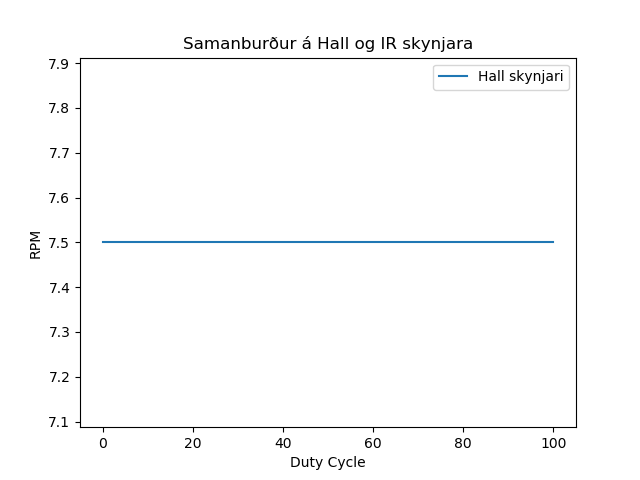
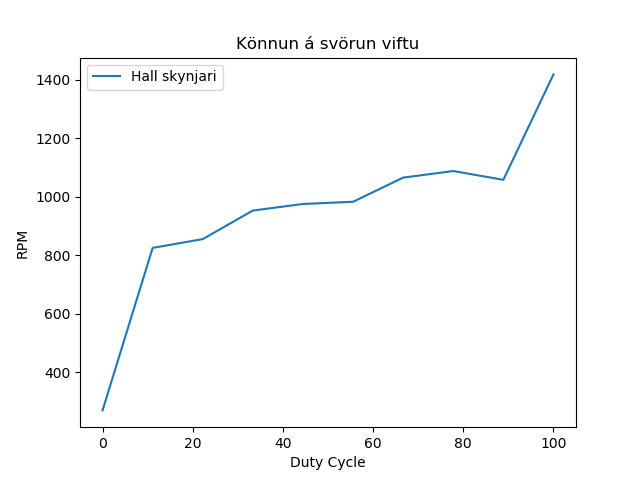
zoom 16 nov

diff --git a/KodaVinnsla/SvorunViftuTAKE2.py b/KodaVinnsla/SvorunViftuTAKE2.py
@@ -1,0 +1,95 @@
+import RPi.GPIO as GPIO
+import time
+import datetime
+import matplotlib.pyplot as plt
+
+# Configuration
+FAN_GPIO_PIN = 20       # BCM pin used to drive PWM fan
+PWM_FREQ = 25000        # [Hz] 25kHz for PWM control
+
+PWM_OFF = 0             # the PWM_duty_cycle 0%
+PWM_MAX = 100           # the PWM_duty_cycle 100%
+
+TACH_GPIO_PIN = 21      # BCM pin for reading the tachometer
+count_time = 2          # seconds for counting sensor changes
+
+RELAY_FAN_GPIO_PIN = 26 # BCM pin used to turn RELAY for FAN ON/OFF
+
+############ skilgreinum ##################
+# Stilla viftuhraða
+def setFanSpeed(PWM_duty_cycle):
+  fan.start(PWM_duty_cycle)    # set the speed according to the PWM duty cycle
+  return()
+
+################################################
+
+############ define functions ##################
+def tach_count(sec,GPIO_PIN):
+  duration = datetime.timedelta(seconds=sec)      # measure for one second
+  end_time = (datetime.datetime.now()+duration)   # set the time when to stop
+  current_pin_status = GPIO.input(GPIO_PIN)
+  last_pin_status = 2
+  counter = 0
+  while ( datetime.datetime.now() < end_time):
+    current_pin_status=GPIO.input(GPIO_PIN)
+    if (current_pin_status != last_pin_status):
+#      print(current_pin_status)
+      last_pin_status = current_pin_status
+      counter += 1
+  return (counter)
+
+################################################
+####
+print("Hversu mörg duty cycle viltu prófa?")
+a = int(input("Fjöldi duty cylce:"))
+
+########
+try:
+  GPIO.setwarnings(False)
+  GPIO.setmode(GPIO.BCM)
+  # PWM notað til að stýra viftuhraða
+  GPIO.setup(FAN_GPIO_PIN, GPIO.OUT, initial=GPIO.LOW)
+  fan = GPIO.PWM(FAN_GPIO_PIN,PWM_FREQ)
+  setFanSpeed(PWM_OFF)
+  # tachometer - from a hall sensor located in the fan
+  GPIO.setup(TACH_GPIO_PIN, GPIO.IN, pull_up_down=GPIO.PUD_UP)
+
+  # Setting up relay for FAN
+  GPIO.setup(RELAY_FAN_GPIO_PIN, GPIO.OUT, initial=GPIO.LOW) # HIGH MEANS RELAY IS OFF
+
+  counter= 0
+
+  ###Búum til tóm fylki og vistum gildi í þau. Notaðu seinna í grafi ##
+  Cycle_duty = []
+  RPM_Hall = []
+  ##############################################
+
+  while (counter < a):
+    duty_cycle = PWM_MAX*counter/(a-1)
+    Cycle_duty.append(duty_cycle)
+    setFanSpeed(duty_cycle)
+    time.sleep(4)
+    print("Duty cycle: {:.2f}%".format(duty_cycle))
+    tach_hall_rpm = float(tach_count(count_time,TACH_GPIO_PIN))/count_time/2/2*60
+    RPM_Hall.append(tach_hall_rpm)
+    print("Hall RPM: {:.2f} RPM".format(tach_hall_rpm))
+    counter += 1
+
+# trap a CTRL+C keyboard interrupt
+except KeyboardInterrupt:
+  setFanSpeed(FAN_OFF)
+  GPIO.cleanup() # resets all GPIO ports used by this function
+
+###Gerum graf af duty cycle sem fall af RPM fyrir báða skynjara
+###############################################################
+a = plt.plot(Cycle_duty,RPM_Hall,label= "Hall skynjari")
+plt.xlabel("Duty Cycle")
+plt.ylabel("RPM")
+plt.title("Könnun á svörun viftu")
+plt.legend()
+plt.savefig('nidurstodur.png')
+##Slokkva á viftu
+setFanSpeed(PWM_OFF)
+GPIO.setup(RELAY_FAN_GPIO_PIN, GPIO.OUT, initial=GPIO.HIGH) # HIGH MEANS RELAY IS OFF
+GPIO.cleanup() # resets all GPIO ports used by this function
+####

diff --git a/KodaVinnsla/PWM_demo.py b/KodaVinnsla/PWM_demo.py
@@ -1,0 +1,42 @@
+#!/usr/bin/python -u
+
+import RPi.GPIO as GPIO
+import time
+
+# Configuration
+FAN_GPIO_PIN = 26       # BCM pin used to drive PWM fan
+PWM_FREQ = 25000        # [Hz] 25kHz for PWM control
+
+PWM_OFF = 0             # the PWM_duty_cycle 0%
+PWM_MAX = 100           # the PWM_duty_cycle 100%
+
+FAN_OFF=PWM_OFF         # If no relay connection, this sets the fan speed to the lowest setting (230 RPM - https://www.arctic.ac/en/F12-PWM/AFACO-120P2-GBA01). If relay connection, use the relay to cut the power to the fan to turn it off.
+
+############ define functions ##################
+# Set fan speed
+def setFanSpeed(PWM_duty_cycle):
+  fan.start(PWM_duty_cycle)    # set the speed according to the PWM duty cycle
+  return()
+
+################################################
+try:
+  GPIO.setwarnings(False)
+  GPIO.setmode(GPIO.BCM)
+  # PWM used to control the fan's speed
+  GPIO.setup(FAN_GPIO_PIN, GPIO.OUT, initial=GPIO.LOW)
+  fan = GPIO.PWM(FAN_GPIO_PIN,PWM_FREQ)
+  setFanSpeed(PWM_OFF)
+
+  counter= 0
+
+  while (counter < 5):
+    duty_cycle = PWM_MAX*counter/4
+    setFanSpeed(duty_cycle)
+    time.sleep(4)
+    print("Duty cycle:: {:.2f}".format(duty_cycle))
+    counter += 1
+
+# trap a CTRL+C keyboard interrupt
+except KeyboardInterrupt:
+  setFanSpeed(FAN_OFF)
+  GPIO.cleanup() # resets all GPIO ports used by this function
